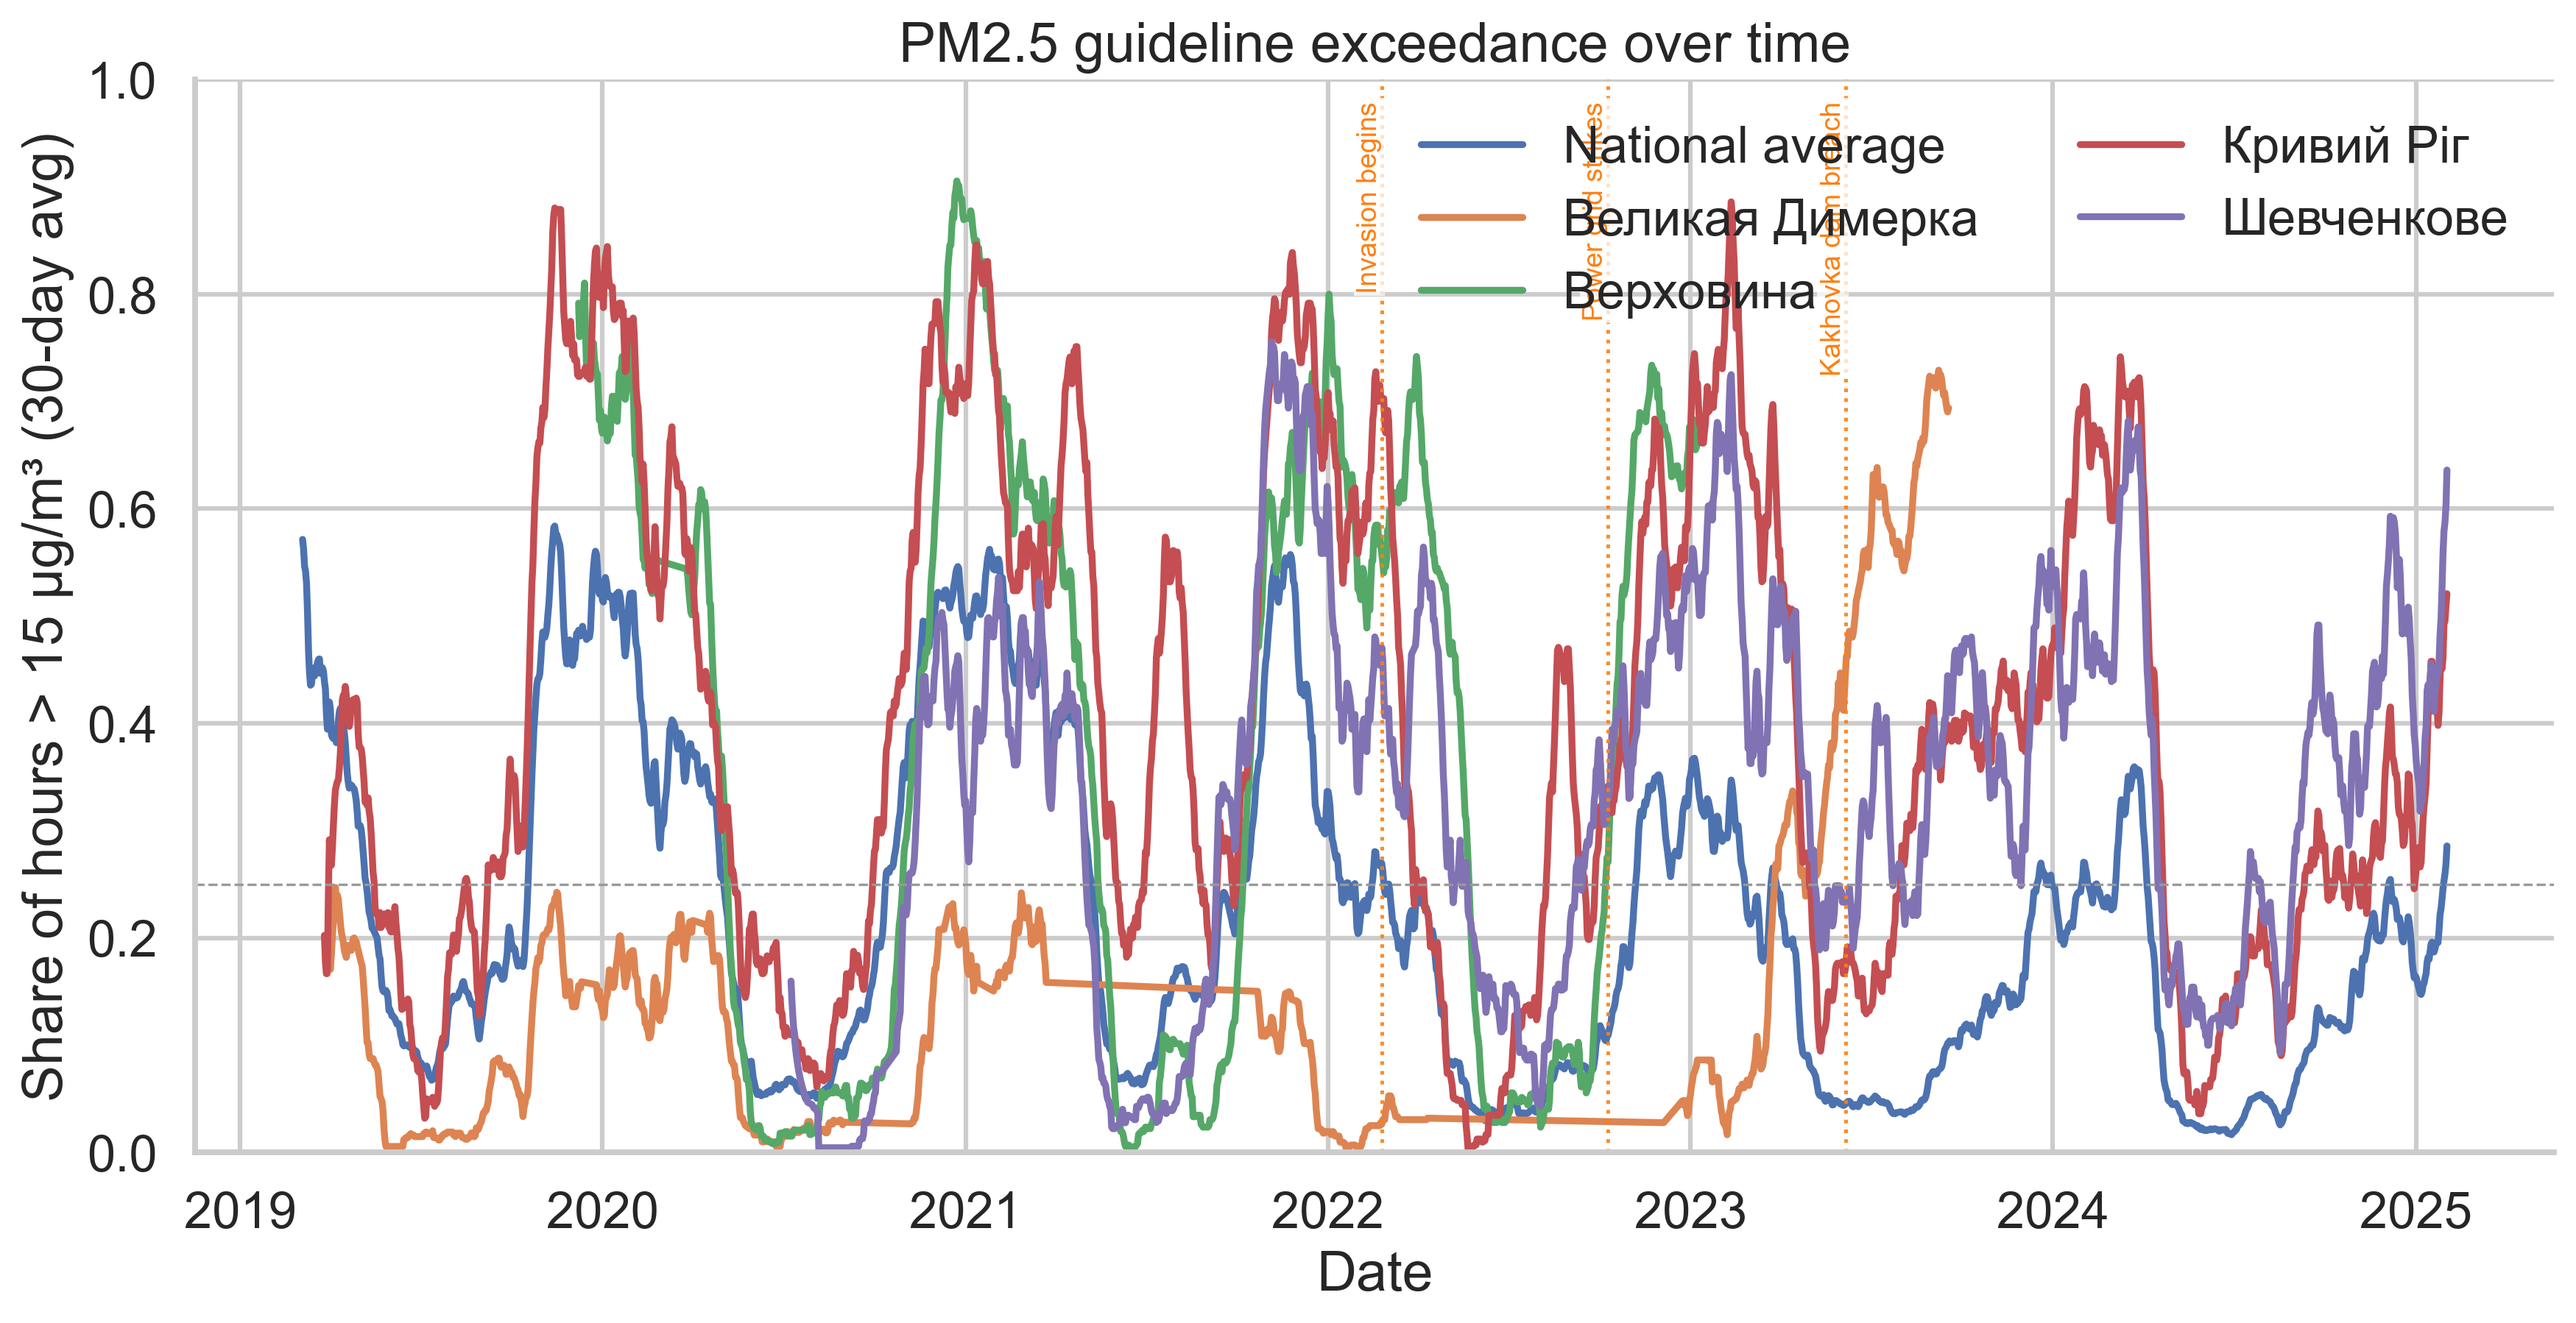
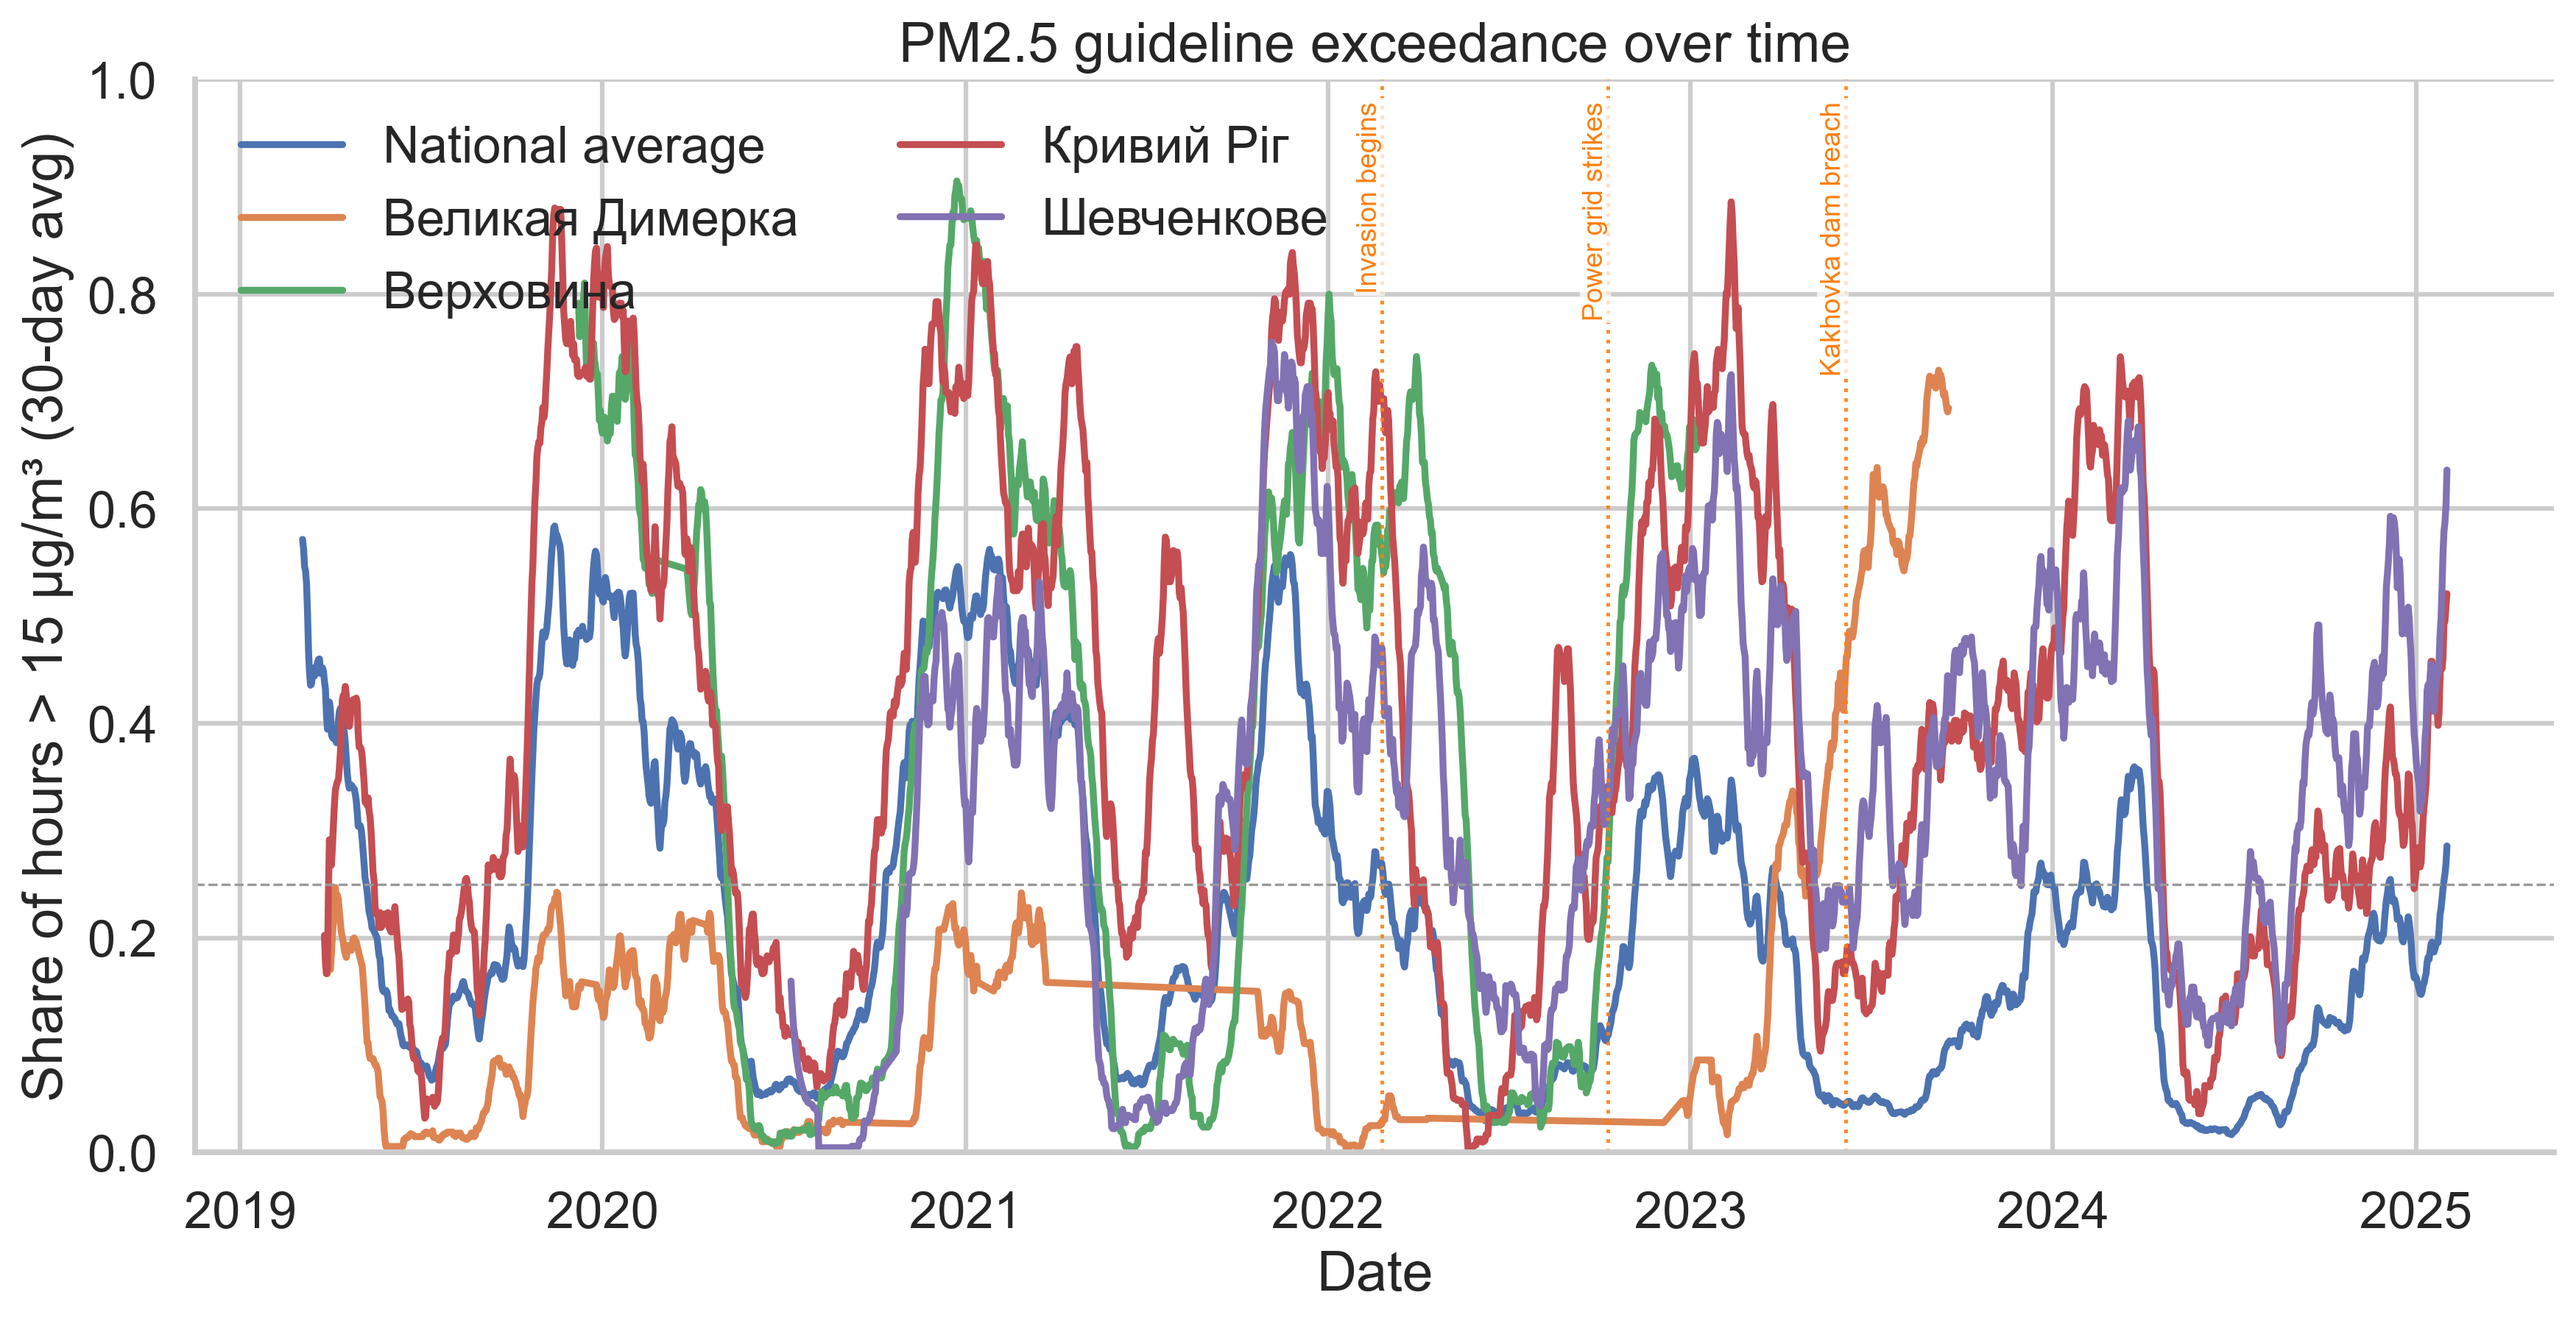
fix: legends

diff --git a/src/visualization/figures.py b/src/visualization/figures.py
@@ -300,25 +300,7 @@ def plot_inequality_panel(
     for ax in axes[len(top_cities) :]:
         ax.set_visible(False)
 
-    handles = [
-        plt.Line2D([0], [0], color="#08519c", label="Median"),
-        plt.Line2D([0], [0], color="#c6dbef", linewidth=6, alpha=0.7, label="p10–p90"),
-        plt.Line2D(
-            [0],
-            [0],
-            color="#d62728",
-            linestyle="--",
-            label=f"WHO guideline ({PM25_GUIDELINE:.0f} µg/m³)",
-        ),
-    ]
     fig.suptitle("Yearly PM2.5 spread for high-pollution cities", y=0.97)
-    fig.legend(
-        handles=handles,
-        loc="upper center",
-        bbox_to_anchor=(0.5, 0.95),
-        ncol=2,
-        frameon=False,
-    )
     fig.subplots_adjust(top=0.88, bottom=0.12, left=0.07, right=0.98, hspace=0.3)
     _despine_axes(ax for ax in axes if ax.get_visible())
     save_figure(fig, output)
@@ -435,7 +417,7 @@ def plot_exceedance_timeline(
         ylabel="Share of hours > 15 µg/m³ (30-day avg)",
         title="PM2.5 guideline exceedance over time",
     )
-    ax.legend(frameon=False, ncol=2)
+    ax.legend(frameon=False, ncol=2, loc="upper left", bbox_to_anchor=(0.0, 1.0))
     ax.set_ylim(0, 1)
 
     ymin, ymax = ax.get_ylim()
